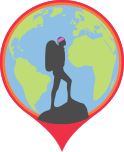
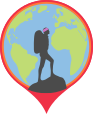
switch to url loader and downsize a bit gdvPin.png

diff --git a/src/map.js b/src/map.js
@@ -154,7 +154,7 @@ const Map = (props) => {
             layout={{
               "icon-image": "gdvPin",
               "icon-anchor": "bottom",
-              "icon-size": ["case", ["==", ["get", "last"], true], 0.4, 0.2],
+              "icon-size": ["case", ["==", ["get", "last"], true], 0.6, 0.3],
               "icon-allow-overlap": true,
             }}
           />

diff --git a/webpack.config.js b/webpack.config.js
@@ -42,7 +42,10 @@ const config = {
         test: /\.(png)$/i,
         use: [
           {
-            loader: "file-loader",
+            loader: "url-loader",
+            options: {
+              limit: 10240,
+            }
           },
         ],
       },
